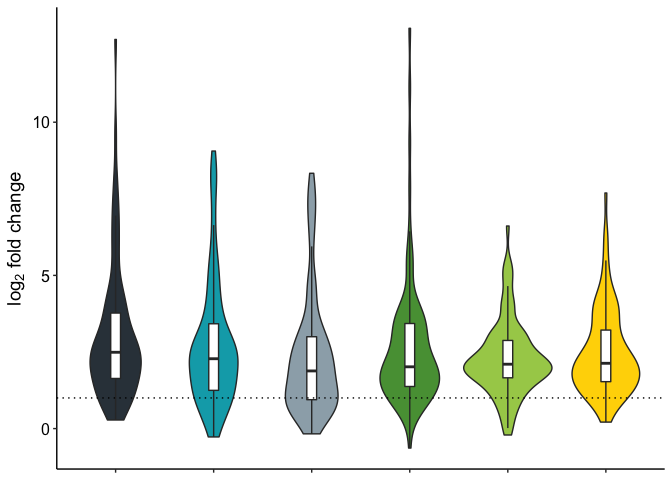
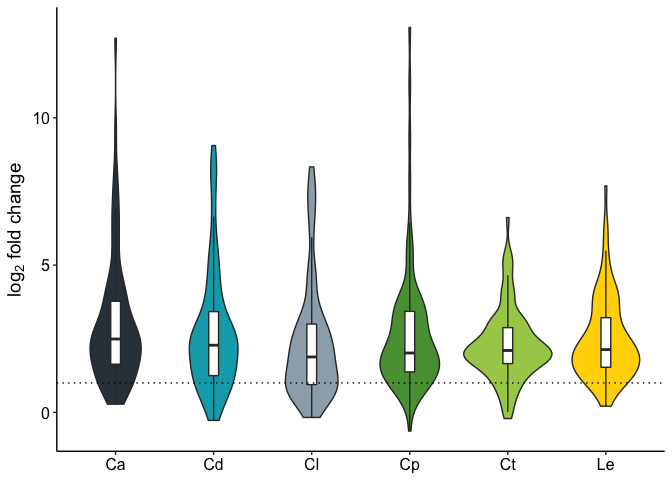
Add files via upload

diff --git a/candida/core_response_identification.md b/candida/core_response_identification.md
@@ -53,15 +53,14 @@ write.table(combined.LFC.df[up_genes,grep("_l2fc|_padj", names(combined.LFC.df))
 
 # Plot fold changes
 colorset <- c("#333f48", "#00a9b7", "#9cadb7", "#579d42", "#a6cd57", "#ffd600")
-melt(up_FCs, id.vars="gene") %>%
+melt(up_FCs, id.vars="gene") %>% mutate(variable = gsub("_l2fc", "", variable)) %>%
   ggplot(aes(x=variable, y=value, fill=variable, group=variable)) +
     geom_violin() +
     scale_fill_manual(values=colorset) +
     geom_boxplot(outlier.color="NA",width=0.1, fill="white") +
     theme_classic() +
     theme(axis.title.x=element_blank(),
-          axis.text.x=element_blank(),
-          axis.text.y=element_text(size=12, color="black"),
+          axis.text=element_text(size=12, color="black"),
           axis.title.y=element_text(size=14),
           legend.position="none") +
     ylab(expression(paste(log[2], " fold change", sep=""))) +
@@ -113,7 +112,6 @@ plotCountsPub <- function(dds,gene,gene.name, transform=F) {
       scale_fill_manual(values=colorset)
   )
 }
-
 
 # Import information on samples
 sample.table <- read.table("candida_sample_information.txt",sep="\t",header=T)
